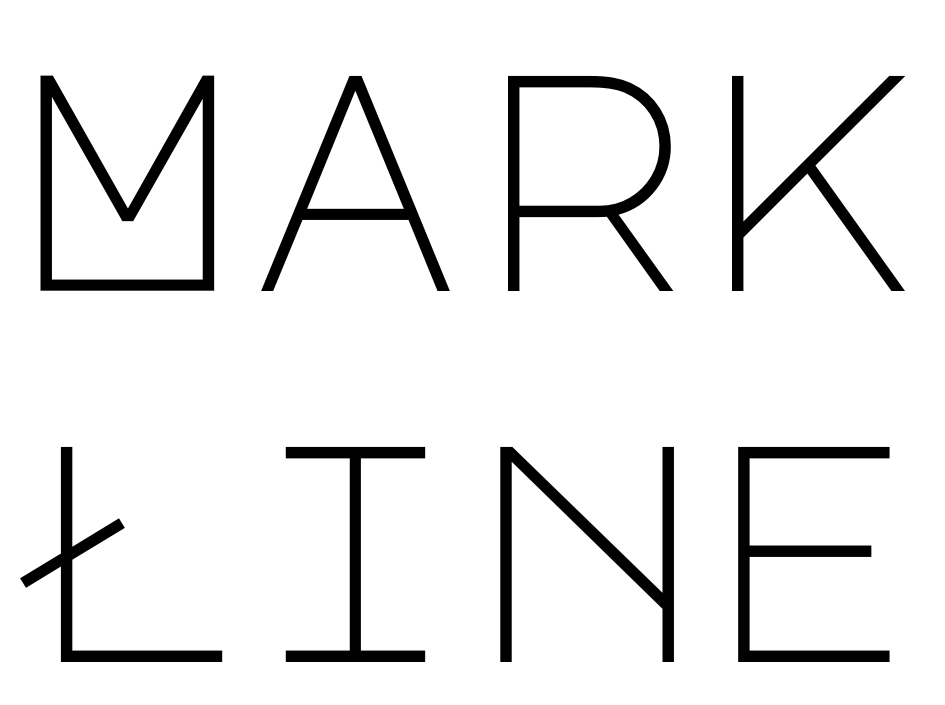
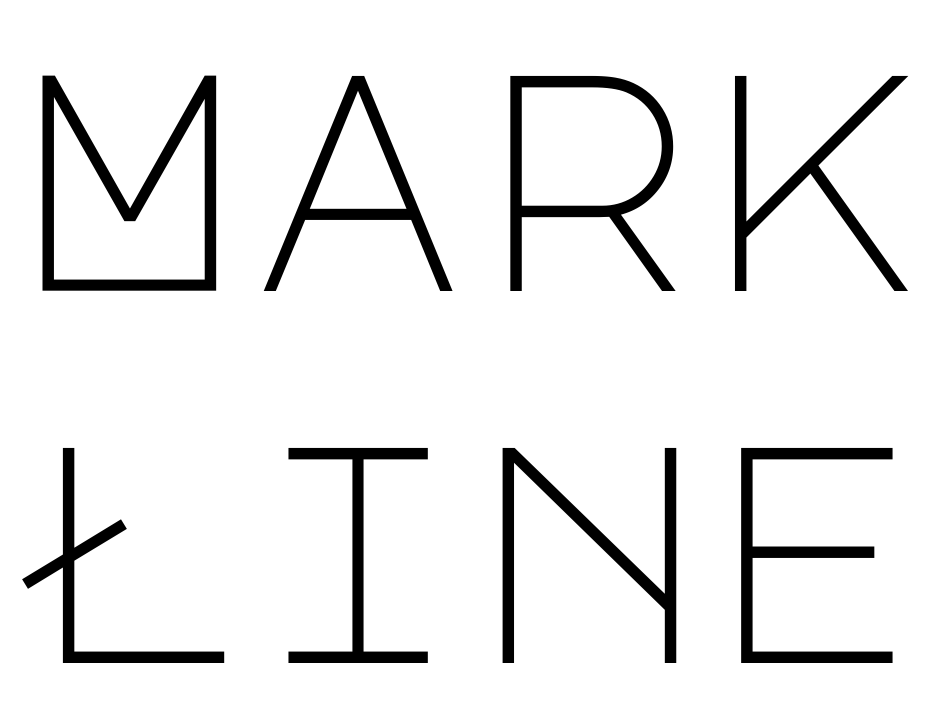
Use shape SVG

diff --git a/README.md b/README.md
@@ -1,4 +1,4 @@
-# ![Markline](img/markline.png)
+# ![Markline](img/markline.svg)
 
 **Markline** convert Markup, of HyperText Markup Language (HTML), to Markdown (md) with a transformation pipeline.
 
